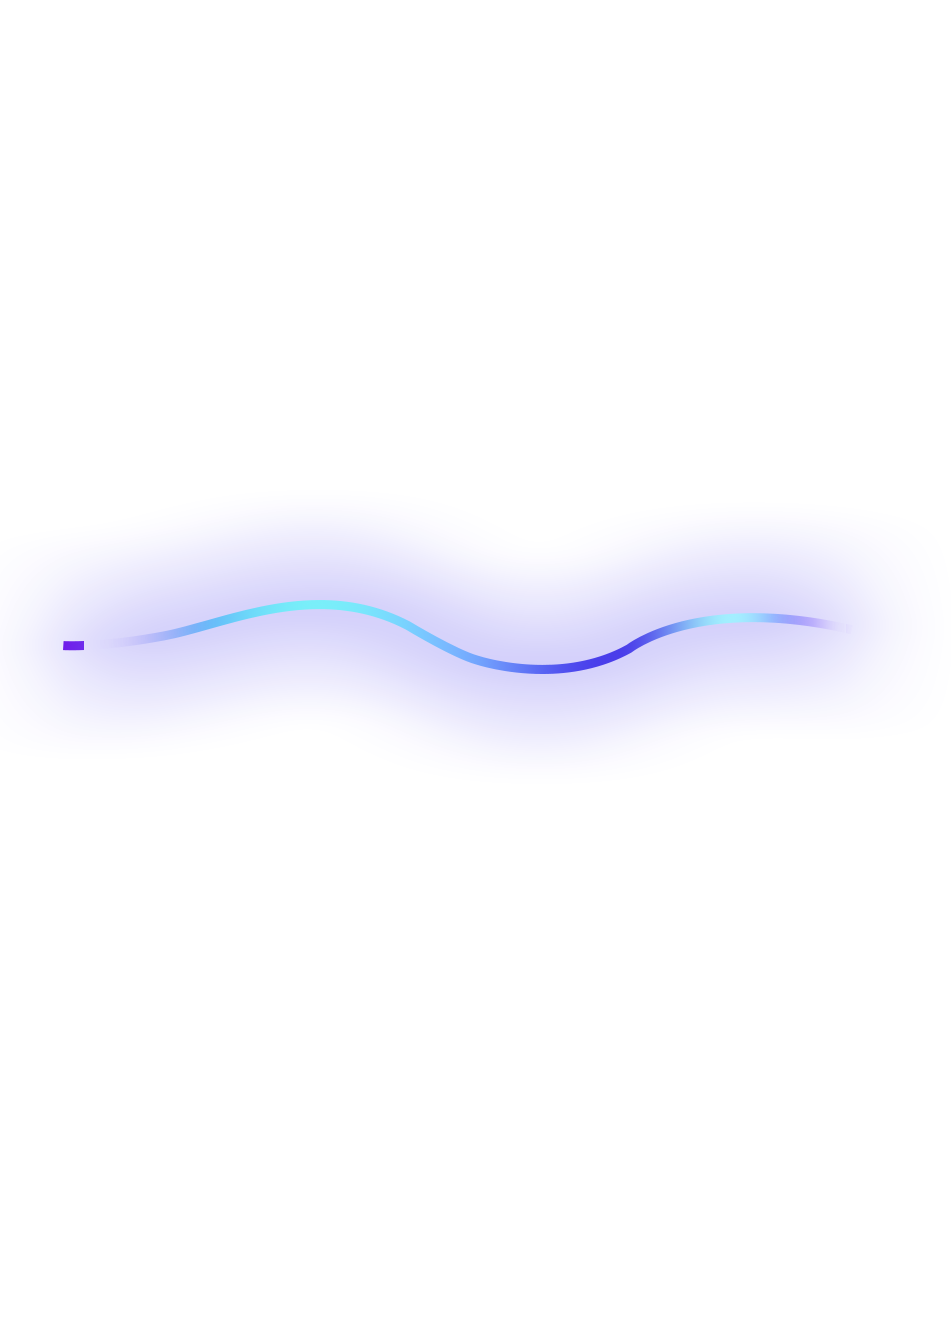
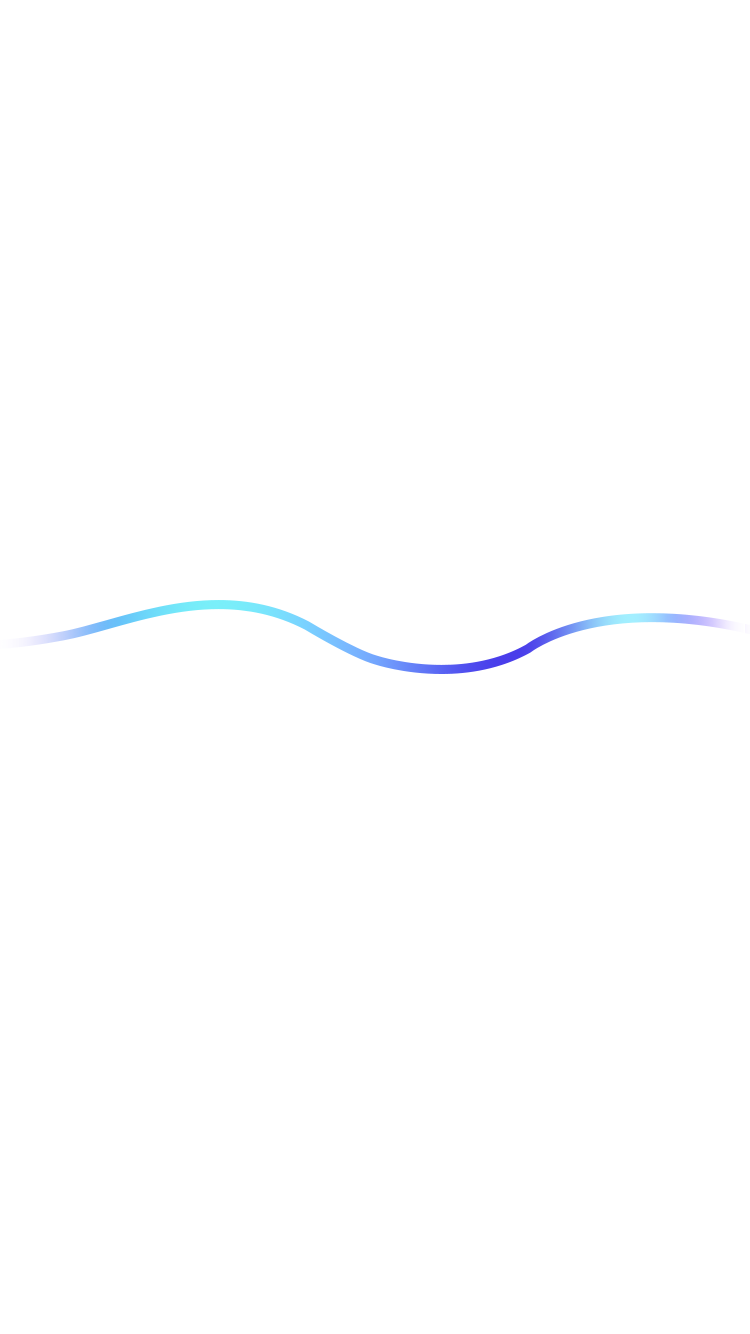
1

Changed region(s): [[0.0613, 0.3996, 0.9507, 0.5532]]

diff --git a/src/views/voice/index.vue b/src/views/voice/index.vue
@@ -107,8 +107,8 @@ export default {
     }
   },
   created() {
-    this.state = 0;
-    this.preload()
+    // this.state = 0;
+    // this.preload()
     this.code = this.$route.query.code
     getUserInfo({
       agentId: base.agentId,
@@ -144,7 +144,7 @@ export default {
     handleTouchStart(e) {
       this.recording = true
       this.btnclass = ""
-      this.btnText = "按住说话"
+      this.btnText = "正在录音..."
       e.preventDefault()
       wx.startRecord({
         fail: function() {
@@ -155,6 +155,7 @@ export default {
     handleTouchEnd(e) {
       // this.btnclass = "success"
       this.recording = false
+      this.btnText = "录音结束"
       let self = this
       e.preventDefault()
       wx.stopRecord({
@@ -352,6 +353,7 @@ export default {
         // 输入的数字不正确
         self.btnclass = "fail"
         self.btnText = "您的语音与数字不一致 请按住重新录制!"
+        self.number = self.randomNumbers()
       }
     },
     // 重设声音锁

diff --git a/src/assets/sass/_style.scss b/src/assets/sass/_style.scss
@@ -151,11 +151,7 @@
     background-size: 100%;
     height: 294px;
     margin-top: 40px;
-    .wave1{
-      background: url(../../assets/images/voice/wave1.png) no-repeat;
-      background-size: 100%;
-      height: 294px;
-    }
+    
   }
   .progress{
     padding: 32px 24px;
@@ -211,6 +207,20 @@
   }
   100% {
     transform: rotate(360deg);
+  }
+}
+@keyframes curve {
+  0% {
+    transform: none;
+    stroke-opacity: 0;
+  }
+  50% {
+    transform: rotateX(360deg) ;
+    stroke-opacity: 0.4;
+  }
+  100% {
+    transform: none;
+    stroke-opacity: 0;
   }
 }
 .bg-2{
